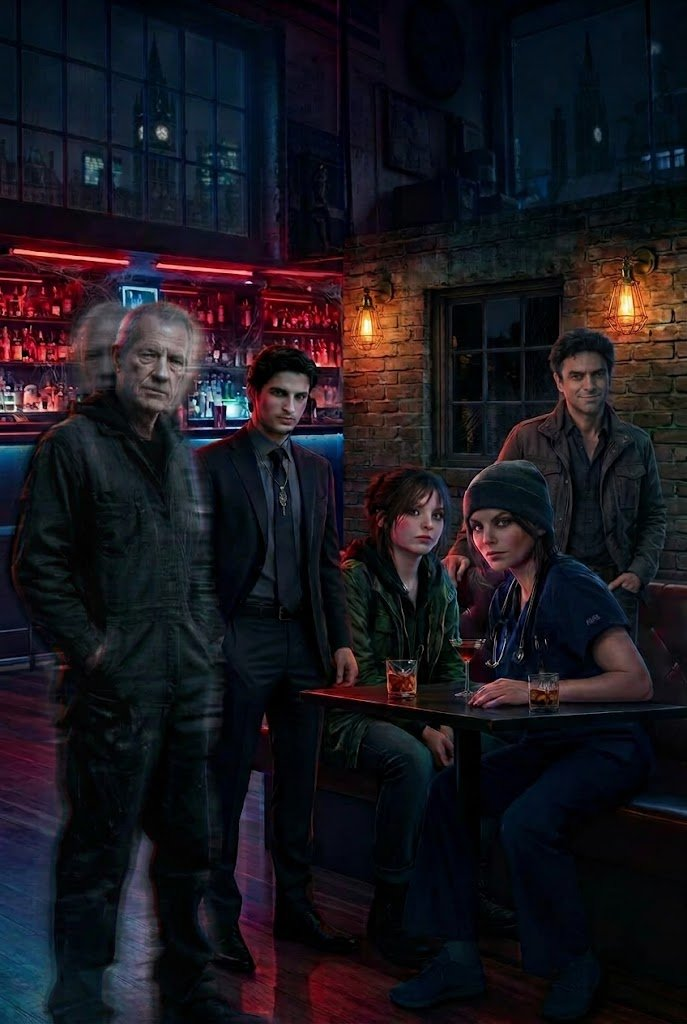
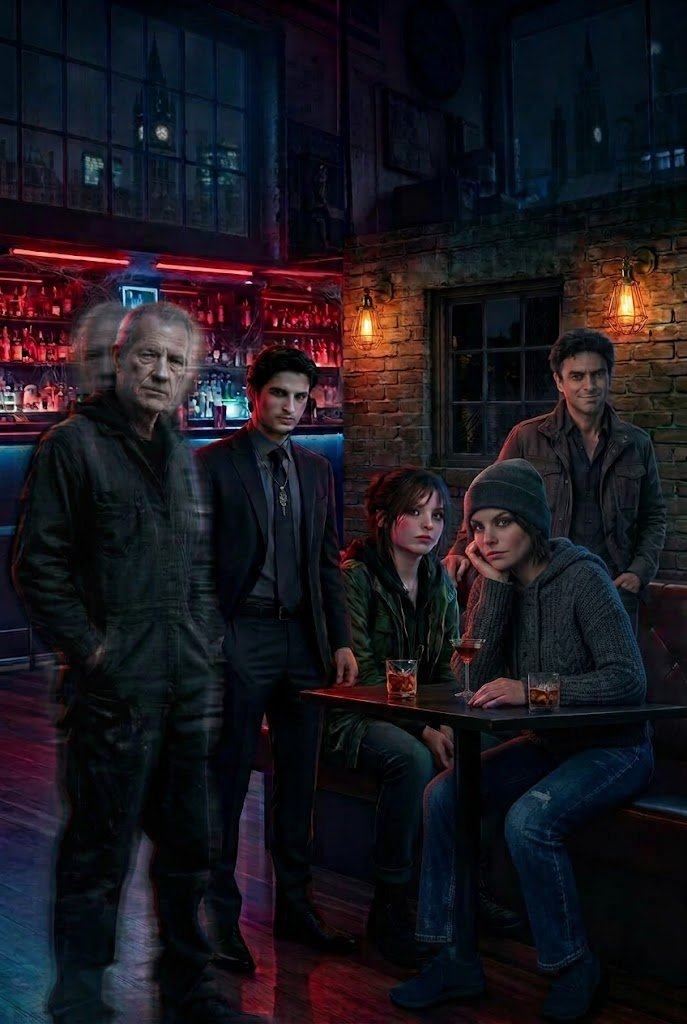
Coterie photo: Nat in off-duty clothes
Claude-Session: https://claude.ai/code/session_015ZVmdZFWauXi3ivGZu2b8v

diff --git a/manchester-by-night/guide.html b/manchester-by-night/guide.html
@@ -610,7 +610,7 @@
     <h2 class="section-title"><span class="num">05</span>Coterie</h2>
     <p class="lede">Five strangers in a Manchester bar. One of them doesn't show up properly in photos.</p>
     <figure class="coterie-photo">
-      <img src="coterie_group.jpg" alt="The coterie gathered around a table in a dim brick-walled Manchester bar at night">
+      <img src="coterie_group.jpg?v=2" alt="The coterie gathered around a table in a dim brick-walled Manchester bar at night">
     </figure>
   </section>
 
